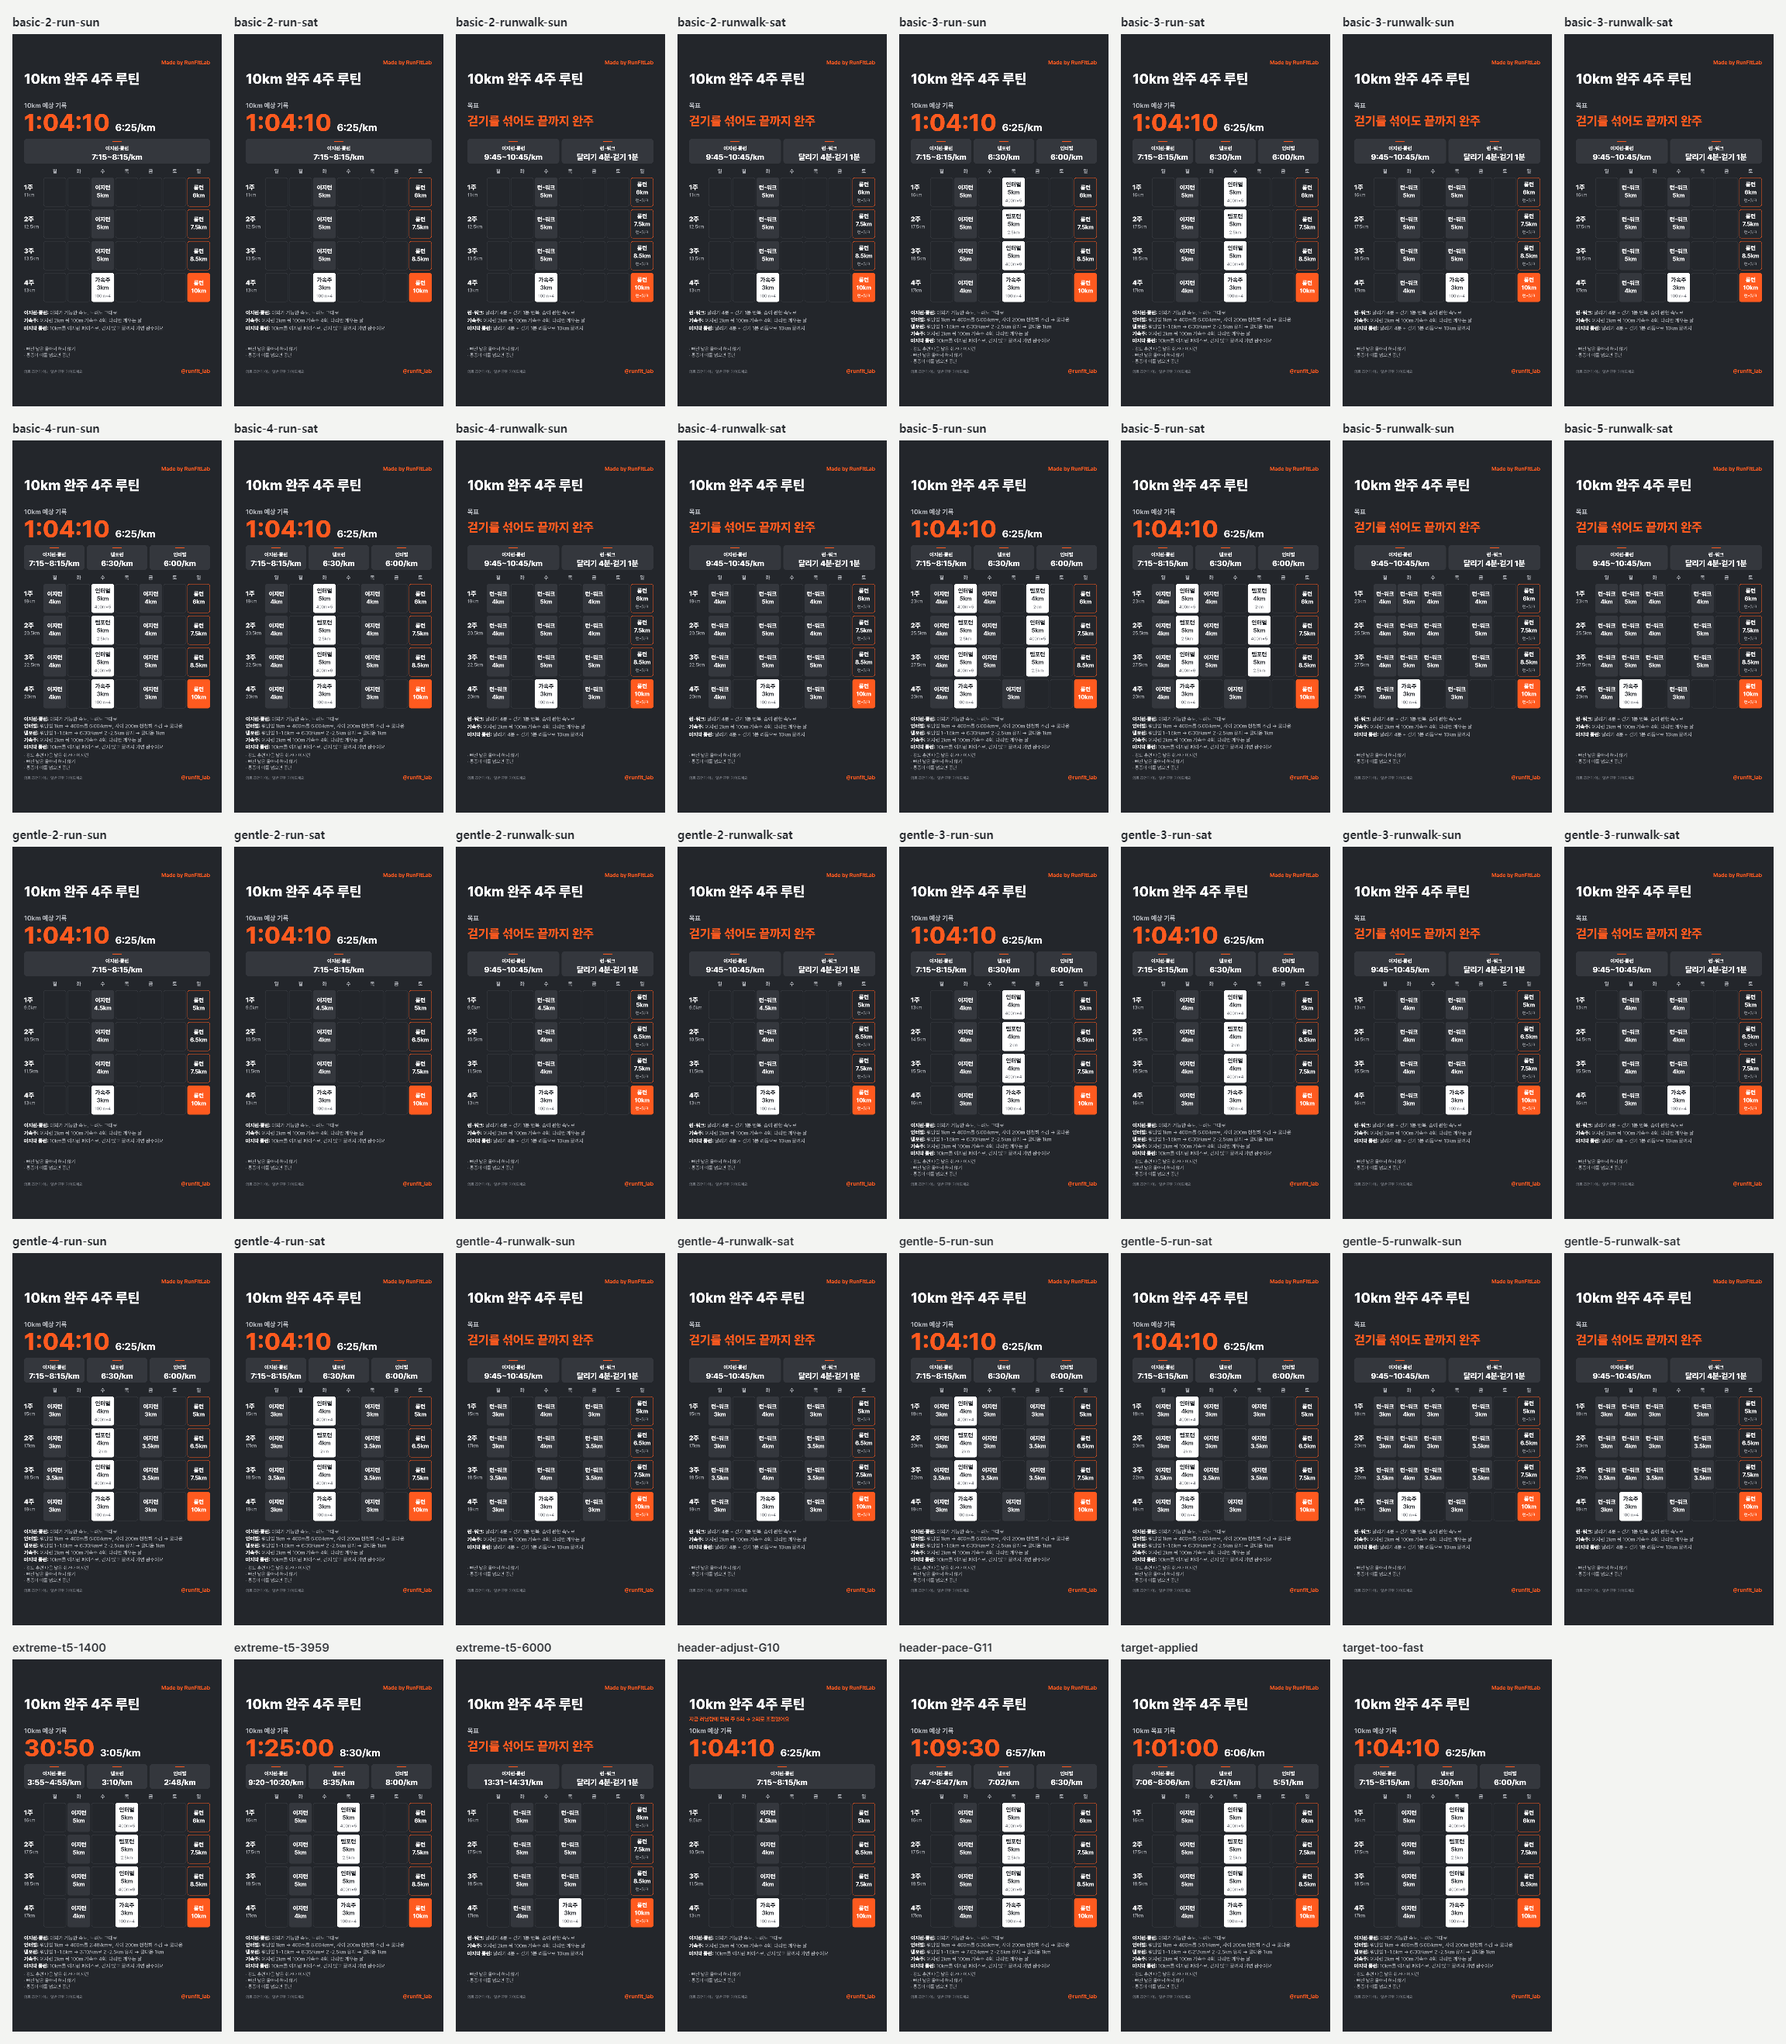
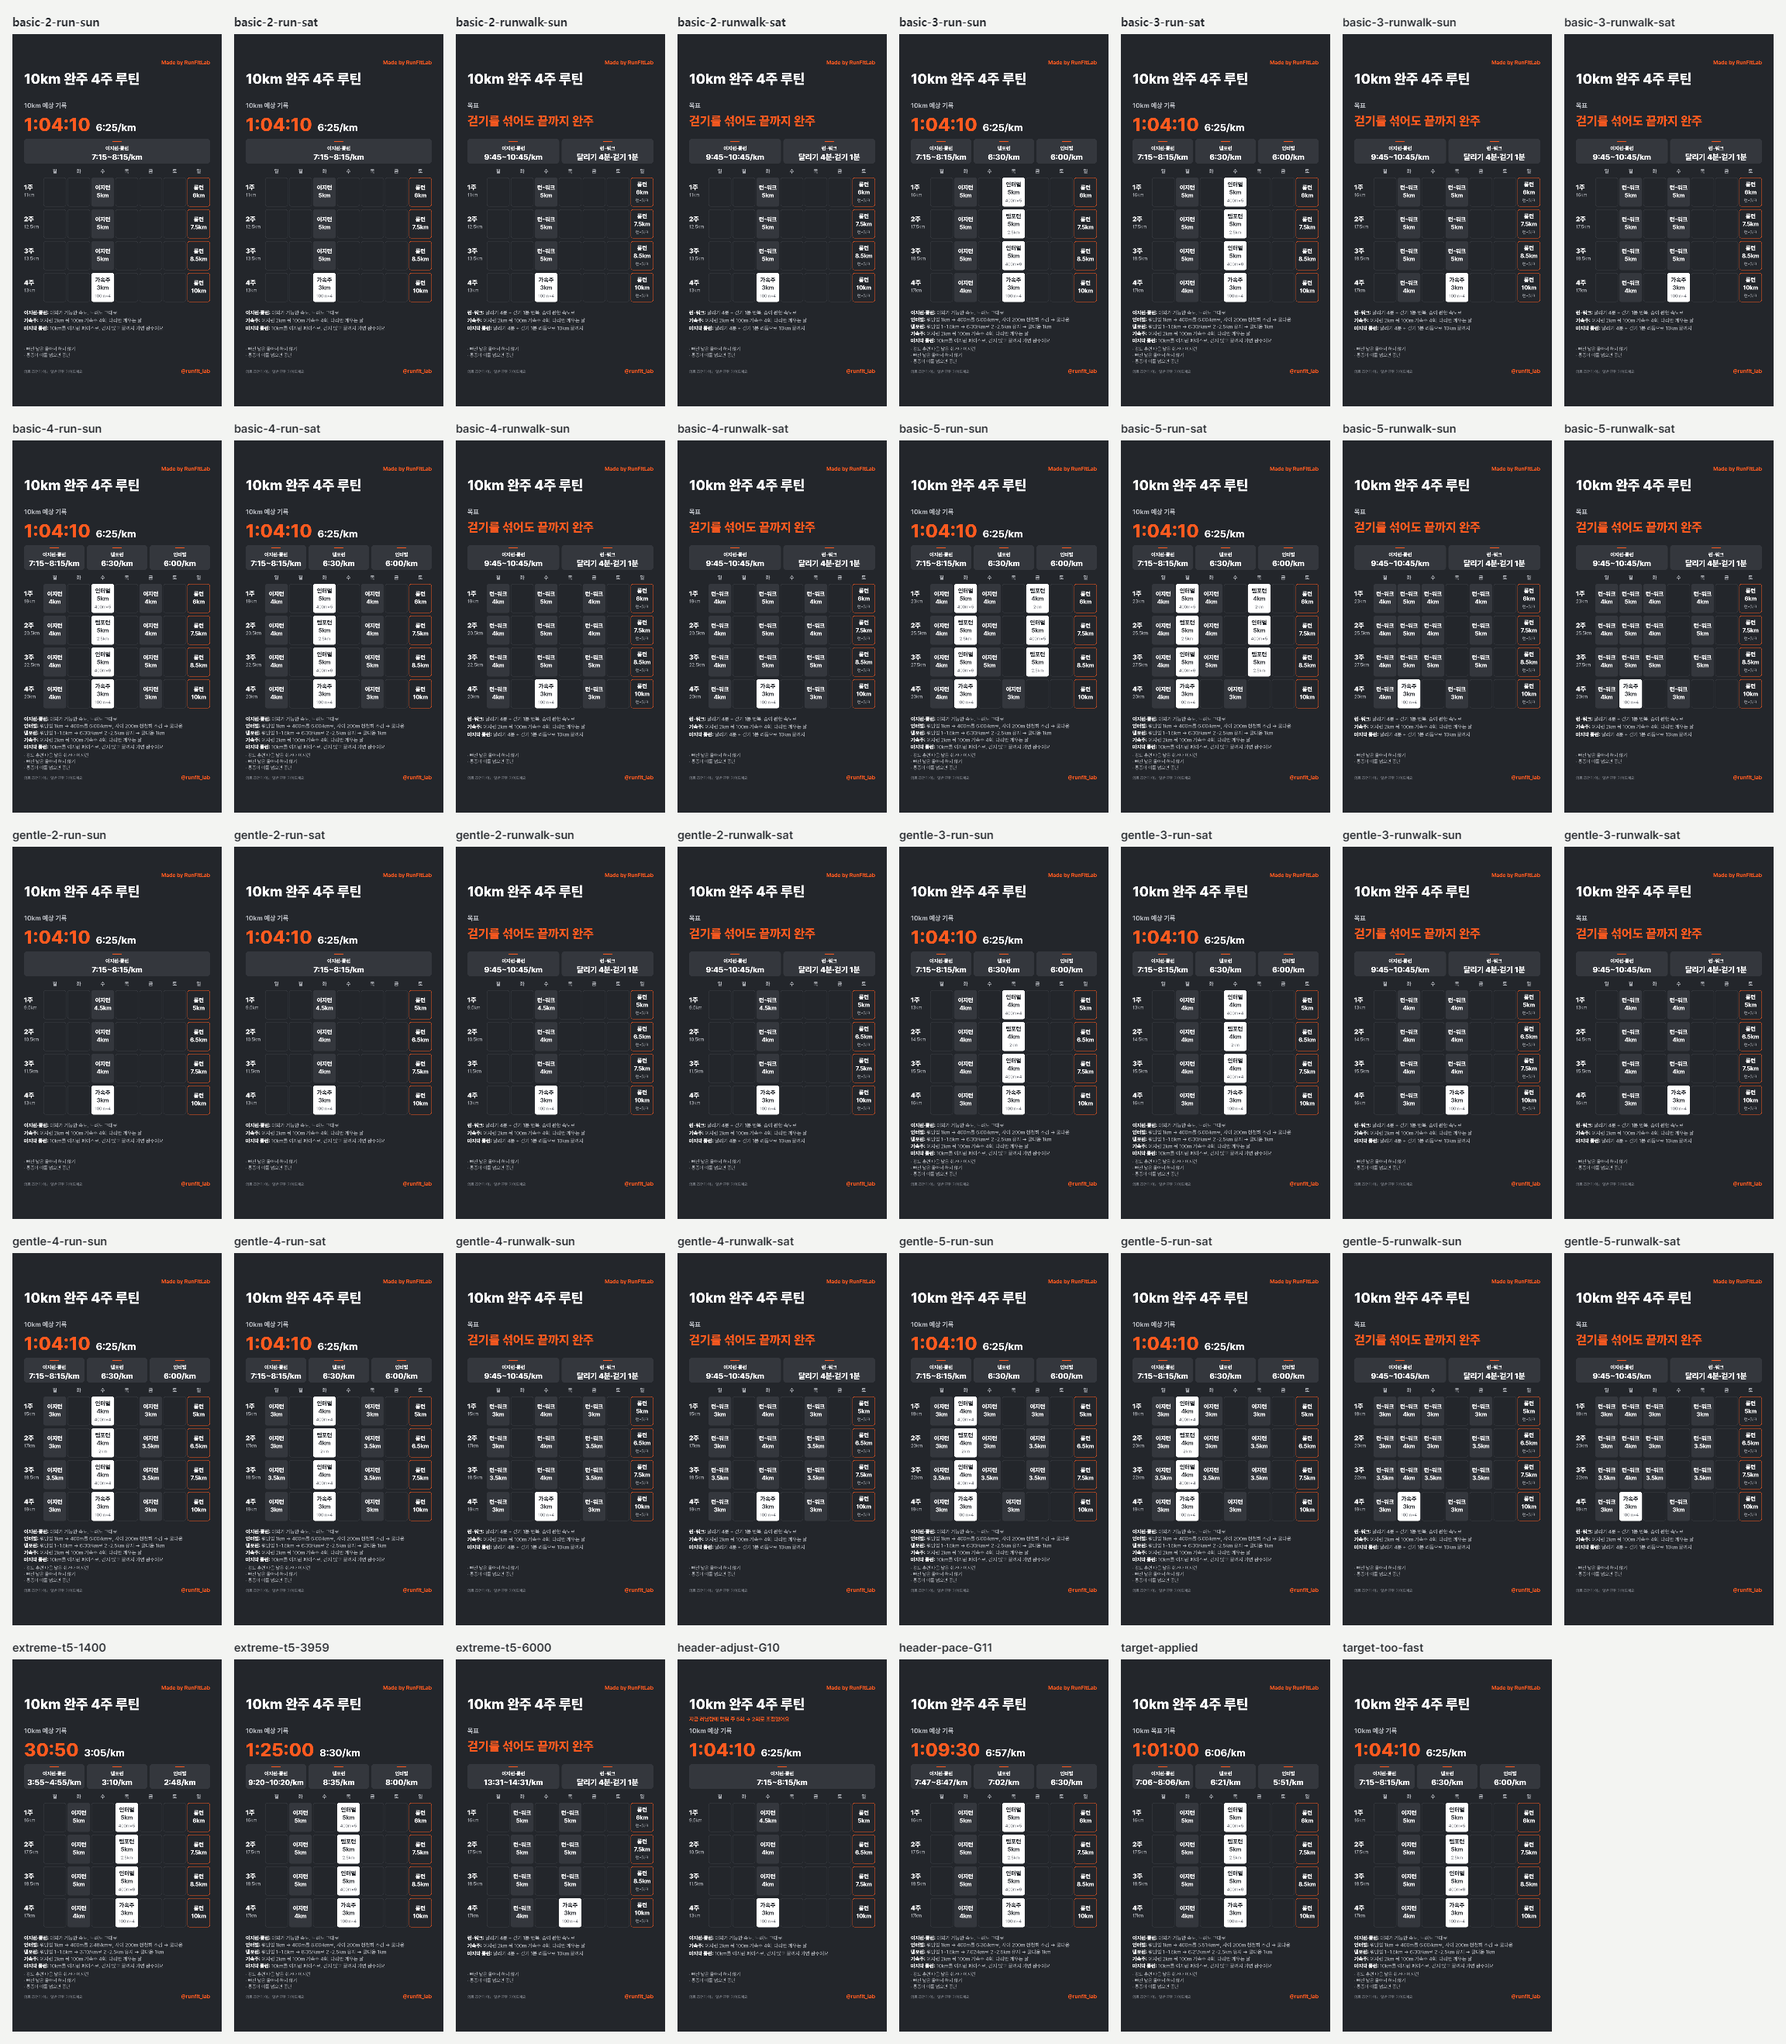
Trim result screen and restyle final long run cell
- Remove the "주 N회 · 요일 롱런" line above the result title.
- "어떻게 계산했나요" shows "펼치기 ▾" / "접기 ▴" on the right.
- Footer Instagram link reads just "인스타그램".
- Image: smaller expected/target time (96px), and the final long run
  cell now uses the same orange outline as the other long runs.

diff --git a/plan/10k/render.js b/plan/10k/render.js
@@ -99,7 +99,7 @@ export function layout(plan, measure, opts = {}) {
     const paceFont = (px) => `700 ${px}px ${family}`;
     const paceW = measure(paceFont(52), pace);
     const gap = 28;
-    text("goalTime", [{ text: formatClock(plan.goalTime), color: C.orange }], { x: L, y: 500, weight: 800, size: 124, minSize: 88, maxWidth: CONTENT_W - paceW - gap });
+    text("goalTime", [{ text: formatClock(plan.goalTime), color: C.orange }], { x: L, y: 500, weight: 800, size: 96, minSize: 72, maxWidth: CONTENT_W - paceW - gap });
     const timeOp = ops.filter((o) => o.id === "goalTime").at(-1);
     const timeEnd = timeOp.x + measure(timeOp.font, timeOp.text);
     text("goalPace", [{ text: pace, color: C.white }], { x: timeEnd + gap, y: 500, weight: 700, size: 52, minSize: 40, maxWidth: R - timeEnd - gap });
@@ -151,8 +151,8 @@ export function layout(plan, measure, opts = {}) {
       let subColor = C.sub;
       if (cell.kind === "easy") rect(x, y, CAL.colW, CAL.rowH, 12, { fill: C.easyFill });
       else if (cell.kind === "quality") { rect(x, y, CAL.colW, CAL.rowH, 12, { fill: C.white }); fg = C.charcoal; subColor = "#5C6068"; }
-      else if (cell.kind === "long") rect(x + 1, y + 1, CAL.colW - 2, CAL.rowH - 2, 12, { stroke: C.orange, lineWidth: 2 });
-      else if (cell.kind === "final") { rect(x, y, CAL.colW, CAL.rowH, 12, { fill: C.orange }); subColor = C.white; }
+      // 마지막 롱런도 다른 롱런과 같은 모양
+      else if (cell.kind === "long" || cell.kind === "final") rect(x + 1, y + 1, CAL.colW - 2, CAL.rowH - 2, 12, { stroke: C.orange, lineWidth: 2 });
 
       const cx = x + CAL.colW / 2;
       const maxW = CAL.colW - CAL.cellPad * 2;

diff --git a/plan/10k/style.css b/plan/10k/style.css
@@ -381,13 +381,6 @@ h1:focus { outline: none; }
 
 .result-head { margin-bottom: 16px; }
 
-.result-eyebrow {
-  margin: 0 0 4px;
-  font-size: 15px;
-  font-weight: 700;
-  color: var(--orange);
-}
-
 .result-head h1 { margin-bottom: 0; }
 
 /* 목표 기록 무리 등 꼭 읽어야 하는 경고 */
@@ -547,7 +540,25 @@ h1:focus { outline: none; }
   font-size: 16px;
   font-weight: 700;
   cursor: pointer;
+  list-style: none;
 }
+
+.howto summary::-webkit-details-marker { display: none; }
+
+/* 펼칠 수 있다는 표시 / 펼친 뒤 접을 수 있다는 표시 */
+.howto summary::after {
+  content: "펼치기 ▾";
+  margin-left: auto;
+  padding-left: 12px;
+  font-size: 14px;
+  font-weight: 700;
+  color: var(--orange);
+  white-space: nowrap;
+}
+
+.howto[open] summary::after { content: "접기 ▴"; }
+
+.howto[open] summary { border-bottom: 1px solid var(--line); margin-bottom: 12px; }
 
 .howto-body {
   padding-bottom: 16px;

diff --git a/plan/10k/index.html b/plan/10k/index.html
@@ -165,7 +165,6 @@
   <!-- 결과 -->
   <section class="screen" data-screen="result" hidden>
     <div class="result-head">
-      <p class="result-eyebrow" id="result-eyebrow"></p>
       <h1>4주 루틴이 완성됐어요</h1>
     </div>
 
@@ -217,7 +216,7 @@
   <p class="disclaimer">의료 조언이 아닌 일반 훈련 가이드예요. 통증이 있으면 쉬고, 이어지면 진료를 받아 보세요.</p>
   <p>입력한 기록은 저장되거나 전송되지 않아요.</p>
   <p class="footer-links">
-    <a href="https://www.instagram.com/runfit_lab/" target="_blank" rel="noopener">인스타그램 @runfit_lab</a>
+    <a href="https://www.instagram.com/runfit_lab/" target="_blank" rel="noopener">인스타그램</a>
     <a id="youtube-link" href="#" target="_blank" rel="noopener" hidden>유튜브</a>
     <a href="../../">레이스 기록 예측기</a>
   </p>

diff --git a/plan/10k/app.js b/plan/10k/app.js
@@ -285,7 +285,6 @@ const WARNING_TEXT = {
   }),
 };
 
-const DAY_LABEL = { sun: "일요일", sat: "토요일" };
 
 async function showResult(input, { navigate = true, replace = false } = {}) {
   const plan = buildPlan(input, CONFIG);
@@ -293,8 +292,6 @@ async function showResult(input, { navigate = true, replace = false } = {}) {
   if (navigate) go("result", { replace, search: `?${encodeLink(input)}` });
   else show("result");
 
-  // 상단 요약
-  $("#result-eyebrow").textContent = `주 ${plan.freq}회 · ${DAY_LABEL[plan.longRunDay]} 롱런`;
 
   const warningKey = plan.notes.find((n) => WARNING_TEXT[n]);
   $("#result-warning").hidden = !warningKey;
